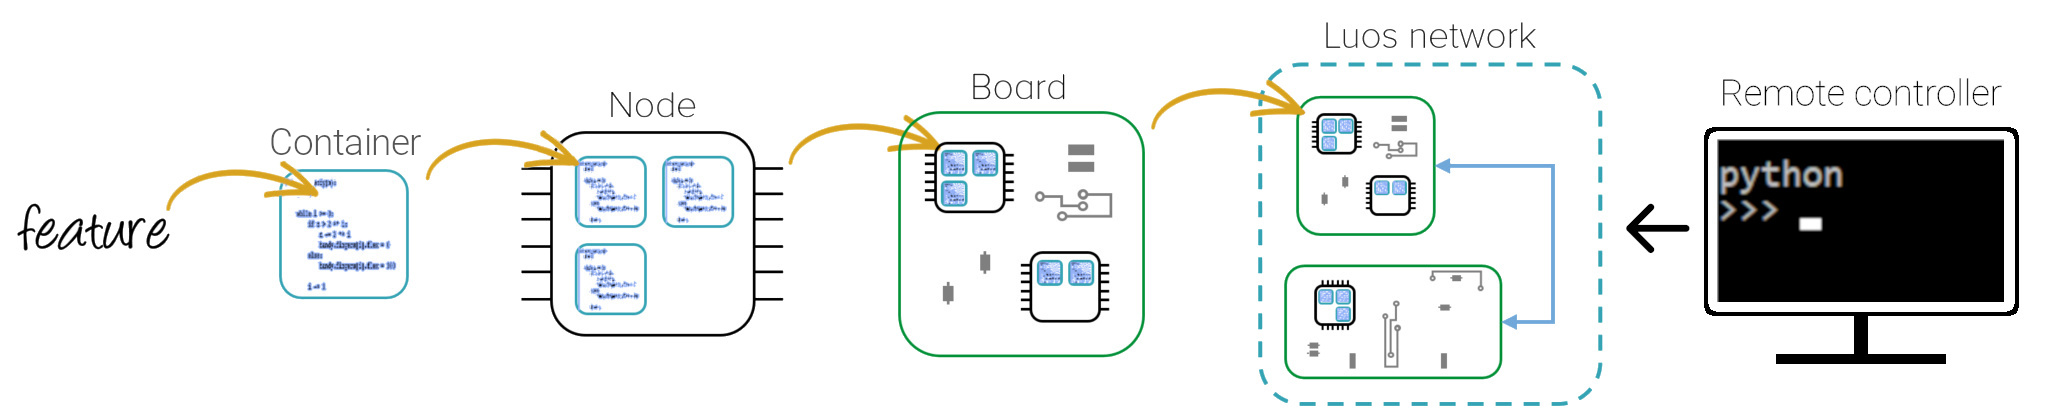
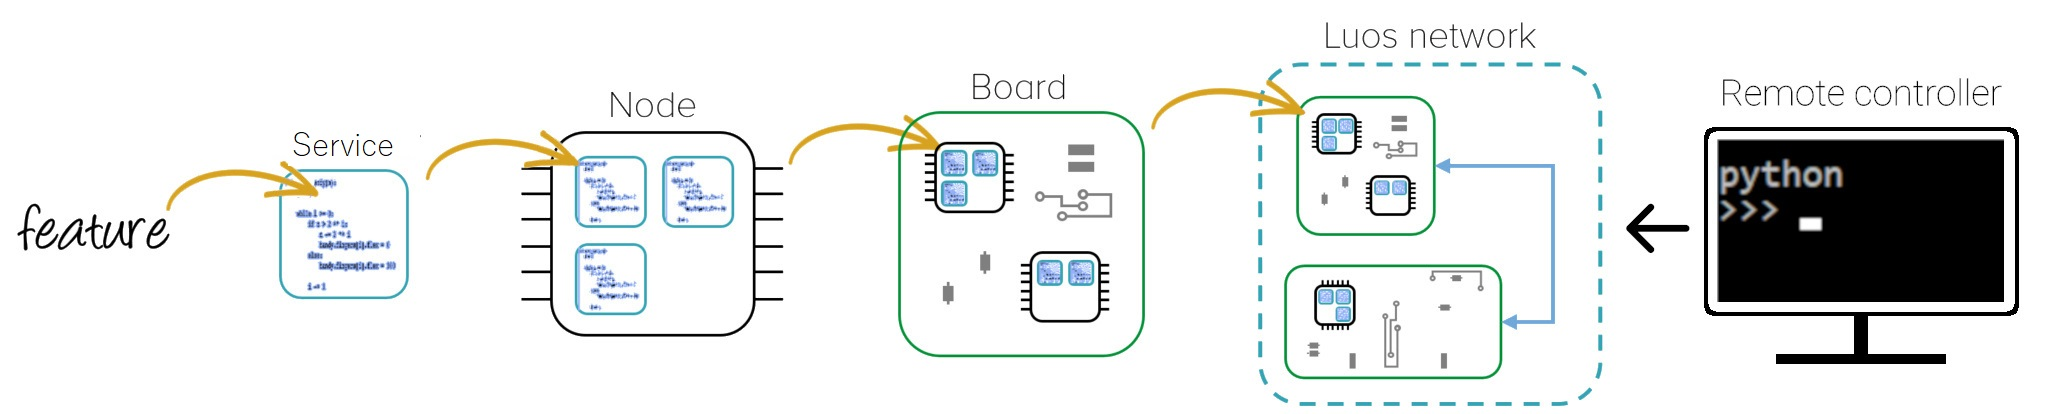
change basics

diff --git a/src/pages/luos-technology/basics/basics.md b/src/pages/luos-technology/basics/basics.md
@@ -1,1 +1,72 @@
 # Basics
+
+# General guide to Luos technology
+
+Take most embedded systems, and you will find the same architecture. The dictatorship of electronics; one central microcontroller that has direct control over all components. Sensors, actuators, all of them will be controlled by one chip, and ultimately, one program.
+Sometimes, a design will have more than one microcontroller, but will ultimately be controlled by one central device. It will be up to the designers to implement an inter-device communication protocol, using any bus available, including instructions and messaging, but also error handling. A significant portion of time is spent on software development.
+Other times, hardware constraints will force you to separate your electronics on to several boards, potentially making interconnection troublesome.
+
+## Introduction to embedded serviceized platforms
+
+Luos aims to change the way you develop by serviceizing services on your devices. A microcontroller can host a series of services, like data acquisition from sensors to actuators like motors and relays. These services are placed inside **Services**. Prepare your services, and deploy them anywhere on a Luos network, and you will be able to communicate directly with your services, no matter where they are on the network. Services can be dynamically connected and disconnected, and can be detected by your application.
+Imagine an industrial device. We will build a system with multiple sensors to monitor the device. It might contain several temperature sensors that will monitor specific parts of the system, and our system will need to know exactly what they monitor. When we read the temperature of the industrial motor, we need to get the information from the motor, not from the power supply. These sensors are placed into services, and clearly state which components they monitor.
+If the device encounters a problem, we need to notify anyone around of an incident. This could be a flashing light, a siren, or any other way of notifying people. In this case, it doesn't matter where the peripherals are placed, or even how many there are, Luos can notify all services that identify as an alarm to activate. Alarms can even be added to the Luos network while it is operating, and they will be recognized and used.
+Finally, it doesn't matter where on the Luos network sensors or actuators are placed. You can wire the different elements together as you want, each element will be detected, and you will be able to use all of your services, wherever they are.
+
+## Introduction to Luos
+
+Luos is a simple and lightweight serviceization platform dedicated to embedded systems enabling a <a href="https://en.wikipedia.org/wiki/Microservices" target="_blank">microservices</a> architecture for electronics. It's a powerful tool using modularity to simplify and link any hardware component or application code together as a <a href="https://en.wikipedia.org/wiki/Single_system_image" target="_blank">single system image</a>.
+
+This guide contains all the basic notions you will need to use, create and understand Luos technology.
+
+Luos is a low-level software technology uploaded into every board's (<span class="cust_tooltip">[**node**](#what-is-a-node)<span class="cust_tooltiptext">{{node_def}}</span></span>) of a device.
+You can use Luos as a **bare metal** lib or as a driver into your **embedded OS**.
+
+Luos is composed as well of **code subdivisions** called <span class="cust_tooltip">[**services**](#service)<span class="cust_tooltiptext">{{service_def}}</span></span>. Services are distributed into every nodes in a network.
+
+<a href="../../_assets/img/feature-service-node-board.jpg" target="_blank"><img src="../../_assets/img/feature-service-node-board.jpg" width="800px" /></a>
+
+## What is a Node?
+A node is a physical component (hardware) running Luos and hosting one or several services. In a Luos network, nodes are all connected together using <span class="cust_tooltip">Robus<span class="cust_tooltiptext">{{robus_def}}</span></span>, the Luos communication technology.<br/>In other words, **a node is a microcontroler** connected to other microcontrolers running Luos.
+In the Luos philosophy, each node has to carry the necessary programs (services) allowing it to manage its boards and features.
+
+<img src="../../_assets/img/MCU-luos.png" height="100px" />
+
+Nodes can have capacities such as measuring the core temperature, sending the processor's unique ID or input voltage. A node's capacities are commonly shared by all the services hosted into it and are accessible through each of them.
+
+## Package notion
+At Luos, a package is a folder of code files that execute features in your project. Luos library execute this package that expose all the service present in your product. A package can be compose by one or several services.
+
+## Service
+A service is code hosted on a Node. It can provide both inputs and outputs. An input could be a temperature sensor, a push button, an I2C sensor, or any other input that you would usually use on your microcontroller design. An output could be an I2C device, or a DAC, GPIO line, PWM or timer output, or any output that you are used to using in your design.
+Services, much like their server-world counterparts, can be placed anywhere in your infrastructure. Services will be placed on the Luos network, and you do not need to know where in the network your service is located, it will be automatically detected on bootup, and accessible. The network can physically change, and your services will still be available.
+
+**Each service is hosted in a single node**, but a node can handle several services at the same time and manage communication between them and between other services hosted in other nodes, using the same interface.
+
+For example, the [Dynamixel board] provided by Luos can dynamically create and manage Dynamixel services depending on the number of Dynamixel motors linked to it. Any Dynamixel services can get or set values to other Dynamixel services on the same node or to any other services in any other nodes in the network.
+
+[Go to Services page].
+
+## App
+An App is a special type of service, one that does not provide any hardware operations, but will contain the intelligence of your product. This is where you will concentrate your code and development time.
+
+While your app does not contain any hardware capabilites (sensors or actuators) as opposed to driver services, an App can talk to your services to receive information, or to give orders. For example, an App will not have direct access to sensors or to digital outputs, but will be able to communicate with services that do offer hardware capabilities.
+
+## Messages
+Communications between continers and apps is performed through Messages. A message contains information on the destination service(s), the type of operation to be performed (a read or write operation and the type of message) as well as any supplemental data. The message will be sent on the network, and will arrive at destination, no matter where the service is placed on the network.
+
+[Go to Messages handling page].
+
+## Service detection
+Services on the network are automatically detected, and assigned IDs depending on their node's physical position in the network, and a routing table is generated.
+
+IDs are assigned from the nearest to the furthest node branch by branch, from the point of view of the service running the detection. Following this logic, the service running the detection will have the ID 1, the next one will have the ID 2, etc.
+
+> *Note:* Multiple detections by different services at the same time is not allowed.
+
+It is possible to execute a detection on the network frequently in order to dynamically discover included or excluded services while running, detecting if hardware has been added or removed. Go to [Routing table] page for more information.
+
+## Routing table
+A routing table is a "service" managed by the Luos network and available for any services on any nodes. This service lists all the services on the network and allows any services to access and use basic information of any other services. The routing table's data can be loaded or auto-generated during detection, and can be refreshed on demand.
+
+[Go to Routing table page].

diff --git a/src/pages/luos-technology/basics/archi.md b/src/pages/luos-technology/basics/archi.md
@@ -1,1 +1,75 @@
 # Architecture
+
+### Luos Levels
+
+| Level | Description |
+| :---: | :---: |
+| Product | A node or a set of nodes communicate together through Luos and forming a complete product. |
+| Nodes | MCUs executing one or more package code. |
+| Package | A sharable folder containing cross-platform code files managing one or more services. |
+| Services | Luos services can be Driver or Apps. Each service can follow Luos template and Luos list of command but can be custom too|
+
+![](../../../_assets/img/architecture.png)
+
+### Product architecture with Luos
+
+```AsciiDoc
+ Project
+  │
+  ├─── Product_config.h
+  ├─── Node 1
+  │    ├─── Node_config.h
+  │    ├─── Main.c
+  │    ├─── Main.h
+  │    ├─── container 1
+  │    │     ├─── container_1.c
+  │    │     └─── container_1.h
+  │    └─── container 2
+  │          ├─── container_2.c
+  │          └─── container_2.h
+  ├─── Node 2
+  │    ├─── Node_config.h
+  │    ├─── Main.c
+  │    ├─── Main.h
+  │    └─── container 3
+  │          ├─── container_3.c
+  │          └─── container_3.h
+  │
+  └─── Node 3
+       ├─── Node_config.h
+       ├─── Main.c
+       ├─── Main.h
+       ├─── container 4
+       │     ├─── container_3.c
+       │     └─── container_3.h
+       ├─── container 4
+       │     ├─── container_3.c
+       │     └─── container_3.h
+       └─── container 5
+             ├─── container_2.c
+             └─── container_2.h
+
+```
+
+
+- **Product level**
+
+    **Product_config.h**: this file describes the general configuration for the product such as  Baudrate, timeout duration, etc. It also regroups the list of custom `service_profiles` and custom command that allow services to communicate together
+
+- **Node level**
+
+    **Node_config.h**: this file describes a configuration of the board Pinout, USART for communication, Timer, and DMA. It also configures buffer size for Luos communication and the number of task
+    **Main.c/.h** : Main files for the node to call luos.h initialize and call package (all the different Service_Init, Server_Loop)
+
+- **Package level**
+
+    **Package.c/.h**: Contain the Service_Init, Service_Loop, and Service_Msg_Handler. In these files, you can create, with luos API, services dedicated to your function
+
+- **Service level**
+    use luos API and Service Profile to create a standard or a custom service that can be used by anybody
+
+### Where is Luos?
+
+Luos Library is use at node level
+
+![](../../../_assets/img/luos_mcu_platform.png)

diff --git a/src/pages/luos-technology/basics/concept.md b/src/pages/luos-technology/basics/concept.md
@@ -1,1 +1,16 @@
 # Concept
+
+## The most for the developer
+
+As explain in [basics page](../../luos-technology/basics/basics.md), Luos provide to developer an architecture of project, a way of creating and make communicate feature with standard message understandable by any application. This way you can encapsulate you development and as a team or external developer, be sure that your application will match with other app develop with Luos. Create a product range is now easy with Luos technology
+Luos is an open source light library that can be put on any MCU to freely and fastly create a product. Using Luos to design a product will help you to debug and monitor your product, Control at high level, and take CICD in consideration for your production
+
+
+## The most for the community
+
+Most of embedded development are build from scratch, using Luos will allow you to capitalize on development all ready done by you compagny or Luos community. re using feature encapsulated with luos will accelerate your time to market and be reassure on robustness and universality of application. You will find a lot new idea and support of the community with Luos package find on our market place.
+
+
+## Good practice with Luos
+
+One of the goal of Luos is to facilitate embedded development of application on MCU, so Luos propose a way and good practice extract from different technology to structured and simplify this part for embedded or other developer
